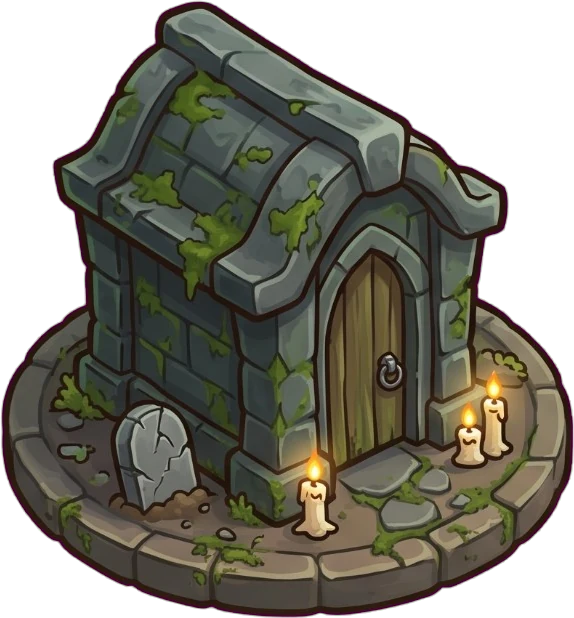
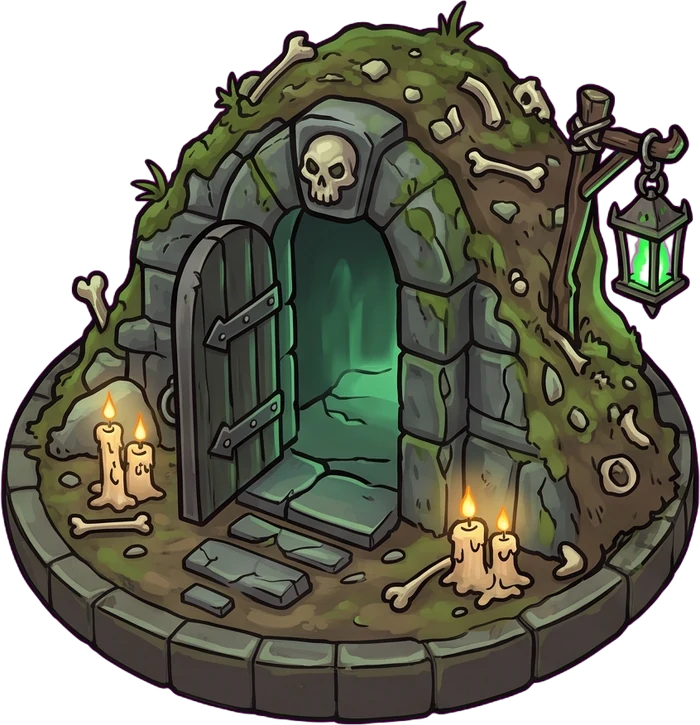
Yeni Mahzen görselleri (Gemini): yarı gömülü mahzen, kemik mahzeni, kafatası kapılı Kara Türbe; savaşçılar kapı merdiveninden çıkar, kapı ağzı ışır

diff --git a/sinir-kalesi/js/game.js b/sinir-kalesi/js/game.js
@@ -2416,8 +2416,9 @@ const SKEL_STANCE = {
 };
 // Mahzen: iskeletler kapıdan toz kaldırarak çıkar (10 Eki'de mezarlıktaki mezarlardan kalkıyorlardı).
 // Noktalar görsele göre: [yatay pay (genişliğin oranı, merkezden), alttan yükseklik (boyun oranı)], kademe sırasıyla.
-// 11 Eki: yeniden Mahzen; iskeletler mahzenin kapısından çıkar (kapı noktası görsele göre, tek nokta)
-const GRAVE_SPOTS = [[[0.08, 0.16]], [[0.05, 0.18]], [[0.05, 0.16]]];
+// 11 Eki: yeni Mahzen (nm_mahzen_v2.jpg); iskeletler kapının merdiveninin dibinden çıkar. DOOR_GLOW: kapı ağzının ortası (ışık)
+const GRAVE_SPOTS = [[[-0.04, 0.2]], [[-0.2, 0.17]], [[-0.17, 0.12]]];
+const DOOR_GLOW = [[-0.05, 0.42], [-0.21, 0.4], [-0.14, 0.44]];
 function graveSpot(t, i) {
   const ts = towerSprite(t), L = GRAVE_SPOTS[t.lvl] || GRAVE_SPOTS[0], g = L[i % L.length];
   return ts ? { x: t.x + g[0] * ts.w, y: ts.bottom - g[1] * ts.h } : { x: t.x, y: t.y + 6 };
@@ -6252,14 +6253,14 @@ function drawNecroTowerFx(t, ts) {
     }
     if (sh > 0) ctx.restore();
   } else if (t.type === 'barracks' && NECRO) {
-    // Mahzen (11 Eki): kapının ağzında nabız gibi atan yeşil-mor ruh ışığı, ayağında süzülen sis (yeni Gemini çizimi gelince ayarlanacak)
-    const P = (dx, up) => ({ x: t.x + dx * ts.w, y: ts.bottom - up * ts.h }), g = GRAVE_SPOTS[t.lvl] ? GRAVE_SPOTS[t.lvl][0] : [0.05, 0.16];
+    // Mahzen (11 Eki): kapının ağzında nabız gibi atan yeşil-mor ruh ışığı, ayağında süzülen sis
+    const P = (dx, up) => ({ x: t.x + dx * ts.w, y: ts.bottom - up * ts.h }), g = DOOR_GLOW[t.lvl] || DOOR_GLOW[0];
     ctx.globalCompositeOperation = 'lighter';
     for (let i = 0; i < 3; i++) {
       const a = time * 0.5 + i * 2.1 + t.x * 0.01, q = P(Math.sin(a) * 0.3, 0.06 + 0.04 * Math.cos(a * 1.3 + i));
       glow(ctx, q.x, q.y, ts.w * (0.15 + 0.04 * Math.sin(a * 2)), i % 2 ? '190,120,255' : '120,255,150', 0.08 + 0.04 * Math.sin(a * 1.7));
     }
-    const d = P(g[0], g[1] + 0.06); glow(ctx, d.x, d.y, 12 * s, '170,100,255', 0.3 + 0.12 * Math.sin(time * 2.2 + t.x)); glow(ctx, d.x, d.y + 3 * s, 7 * s, '120,255,160', 0.28 + 0.1 * Math.sin(time * 3.1));
+    const d = P(g[0], g[1]); glow(ctx, d.x, d.y, 13 * s, '120,255,160', 0.22 + 0.1 * Math.sin(time * 2.2 + t.x)); glow(ctx, d.x, d.y + 4 * s, 8 * s, '170,100,255', 0.18 + 0.08 * Math.sin(time * 3.1));
   } else if (t.type === 'mage') {
     // fenerdeki ruh: nabız gibi atan mor-yeşil ışık, çevresinde dönen küçük hayalet kıvılcımları
     const pulse = 0.5 + Math.sin(time * 3.2 + t.x) * 0.15 + 0.4 * sh;

diff --git a/sinir-kalesi/index.html b/sinir-kalesi/index.html
@@ -11,7 +11,7 @@
 <canvas id="game" aria-label="Sınır Kalesi oyun alanı"></canvas>
 <script>
   // Sürüm damgası: her yayında artırılır; tarayıcı eski önbellek kopyasını kullanmaz (js ve görseller).
-  window.SURUM = '294';
+  window.SURUM = '295';
   // dil: kayıtlı seçim ya da cihaz dili; tr/en dışındakiler için çeviri sözlüğü dil.js'ten önce yüklenir
   window.__dilYukle = (function () {
     var l = null; try { l = localStorage.getItem('sinirKalesi.lang'); } catch (e) {}

diff --git a/sinir-kalesi/yayin.html b/sinir-kalesi/yayin.html
@@ -11,7 +11,7 @@
 <canvas id="game" aria-label="Sınır Kalesi oyun alanı"></canvas>
 <script>
   // Sürüm damgası: her yayında artırılır; tarayıcı eski önbellek kopyasını kullanmaz (js ve görseller).
-  window.SURUM = '294';
+  window.SURUM = '295';
   // dil: kayıtlı seçim ya da cihaz dili; tr/en dışındakiler için çeviri sözlüğü dil.js'ten önce yüklenir
   window.__dilYukle = (function () {
     var l = null; try { l = localStorage.getItem('sinirKalesi.lang'); } catch (e) {}

diff --git a/varliklar/nm_isle.py b/varliklar/nm_isle.py
@@ -25,7 +25,7 @@ SHEETS = [
     ('nm_dikilitas_4.jpg', ['tower_archer_nail', None], 'decor'),  # 4. kademe: Kemik Balistası (Hayalet Okçular artık nm_hayalet_okcular.jpg'den)
     ('nm_hayalet_arbaletciler.jpg', ['unit_ghostxbow', 'unit_ghostxbow_aim'], 'decor'),  # 11 Eki: arbaletçi kulesinin iskeletleri (hazır, nişan)
     ('nm_hayalet_okcular.jpg', ['unit_ghostarcher', 'unit_ghostarcher_draw', 'tower_archer_fan'], 'decor'),  # 10 Eki: tepesi boş kule + üstünde gezen 2 elit okçu (duruş, gerilmiş yay)
-    ('nm_mezarlik.jpg', ['tower_barracks_1', 'tower_barracks_2', 'tower_barracks_3'], 'tower'),  # 10 Eki: Savaşçı Mezarlığı; 11 Eki'de oyunda yeniden eski nm_mahzen görselleri (yeni mahzen çizimi bekleniyor)
+    ('nm_mahzen_v2.jpg', ['tower_barracks_1', 'tower_barracks_2', 'tower_barracks_3'], 'tower'),  # 11 Eki: yeni Mahzen (yarı gömülü mahzen, kemik mahzeni, kafatası kapılı kara türbe; eski: nm_mezarlik.jpg, nm_mahzen.jpg)
     ('nm_dikilitas.jpg', ['tower_archer_1', 'tower_archer_2', 'tower_archer_3'], 'tower'),  # 8 Eki: okçu yerine Kemik Dikilitaşı
     ('nm_fener.jpg', ['tower_mage_1', 'tower_mage_2', 'tower_mage_3'], 'tower'),  # Ruh Feneri
     ('nm_kazan.jpg', ['tower_artillery_1', 'tower_artillery_2', 'tower_artillery_3'], 'tower'),  # Veba Kazanı
